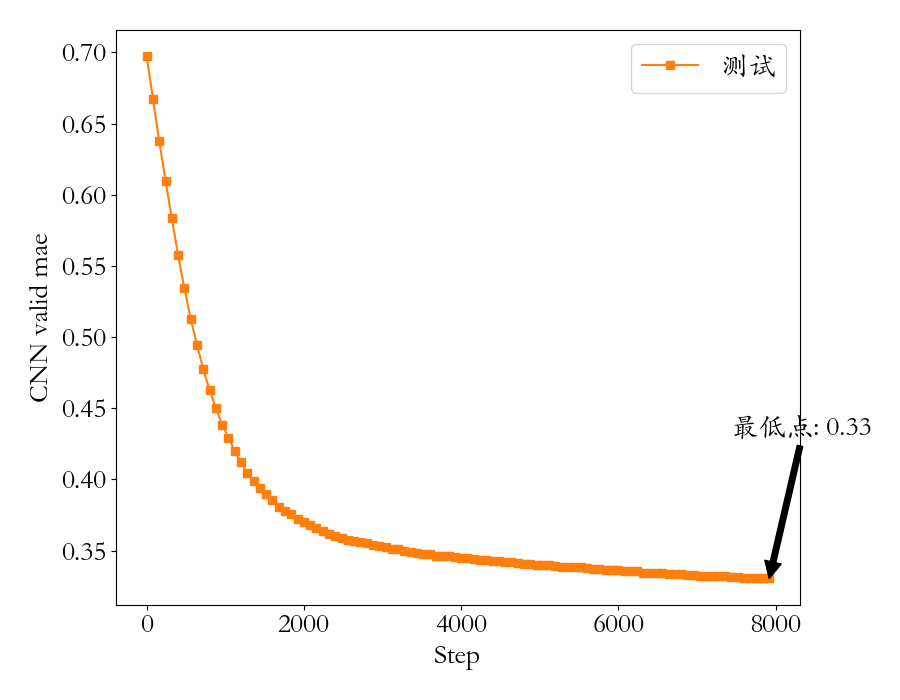
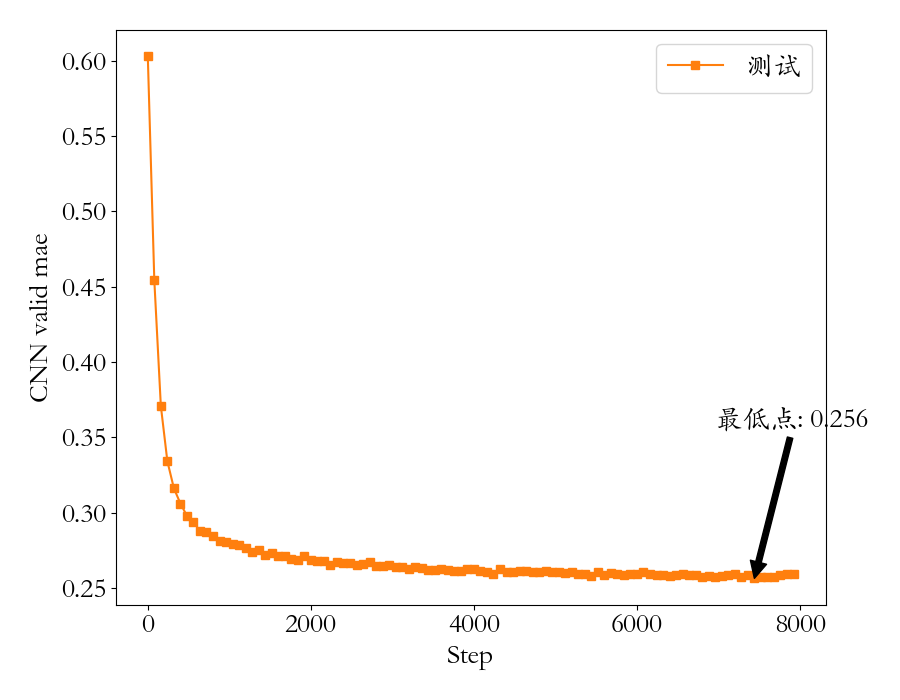
调整参数，统一取消dropout

diff --git a/04_CNN/04_tensorflow_cnn.py b/04_CNN/04_tensorflow_cnn.py
@@ -60,15 +60,15 @@ model = Sequential()
 model.add(Conv1D(filters=128, kernel_size=2, activation='relu', input_shape=(5, 6)))  # 卷积层1
 model.add(Conv1D(filters=64, kernel_size=2, activation='relu'))  # 卷积层2
 model.add(MaxPooling1D(pool_size=2))  # 池化层
-model.add(Dropout(0.2))
+# model.add(Dropout(0.2))
 model.add(Flatten())  # 降维
 model.add(Dense(50, activation='relu'))  # 全连接层
-model.add(Dropout(0.2))
+# model.add(Dropout(0.2))
 model.add(Dense(6))  # 全连接输出
 model.compile(optimizer=optimizer, loss='mse', metrics=['mae'])  # 使用mse调整loss，使用mae验证准确率
 
 # 拟合模型，epochs为训练次数， batch_size为单次训练训练数据大小， verbose=2代表控制台输出全部训练记录
-history = model.fit(x_train, y_train, validation_data=(x_valid, y_valid), epochs=100, batch_size=512, verbose=2)
+history = model.fit(x_train, y_train, validation_data=(x_valid, y_valid), epochs=100, batch_size=128, verbose=2)
 
 # 标记fit时间
 usetime = time.time() - starttime
